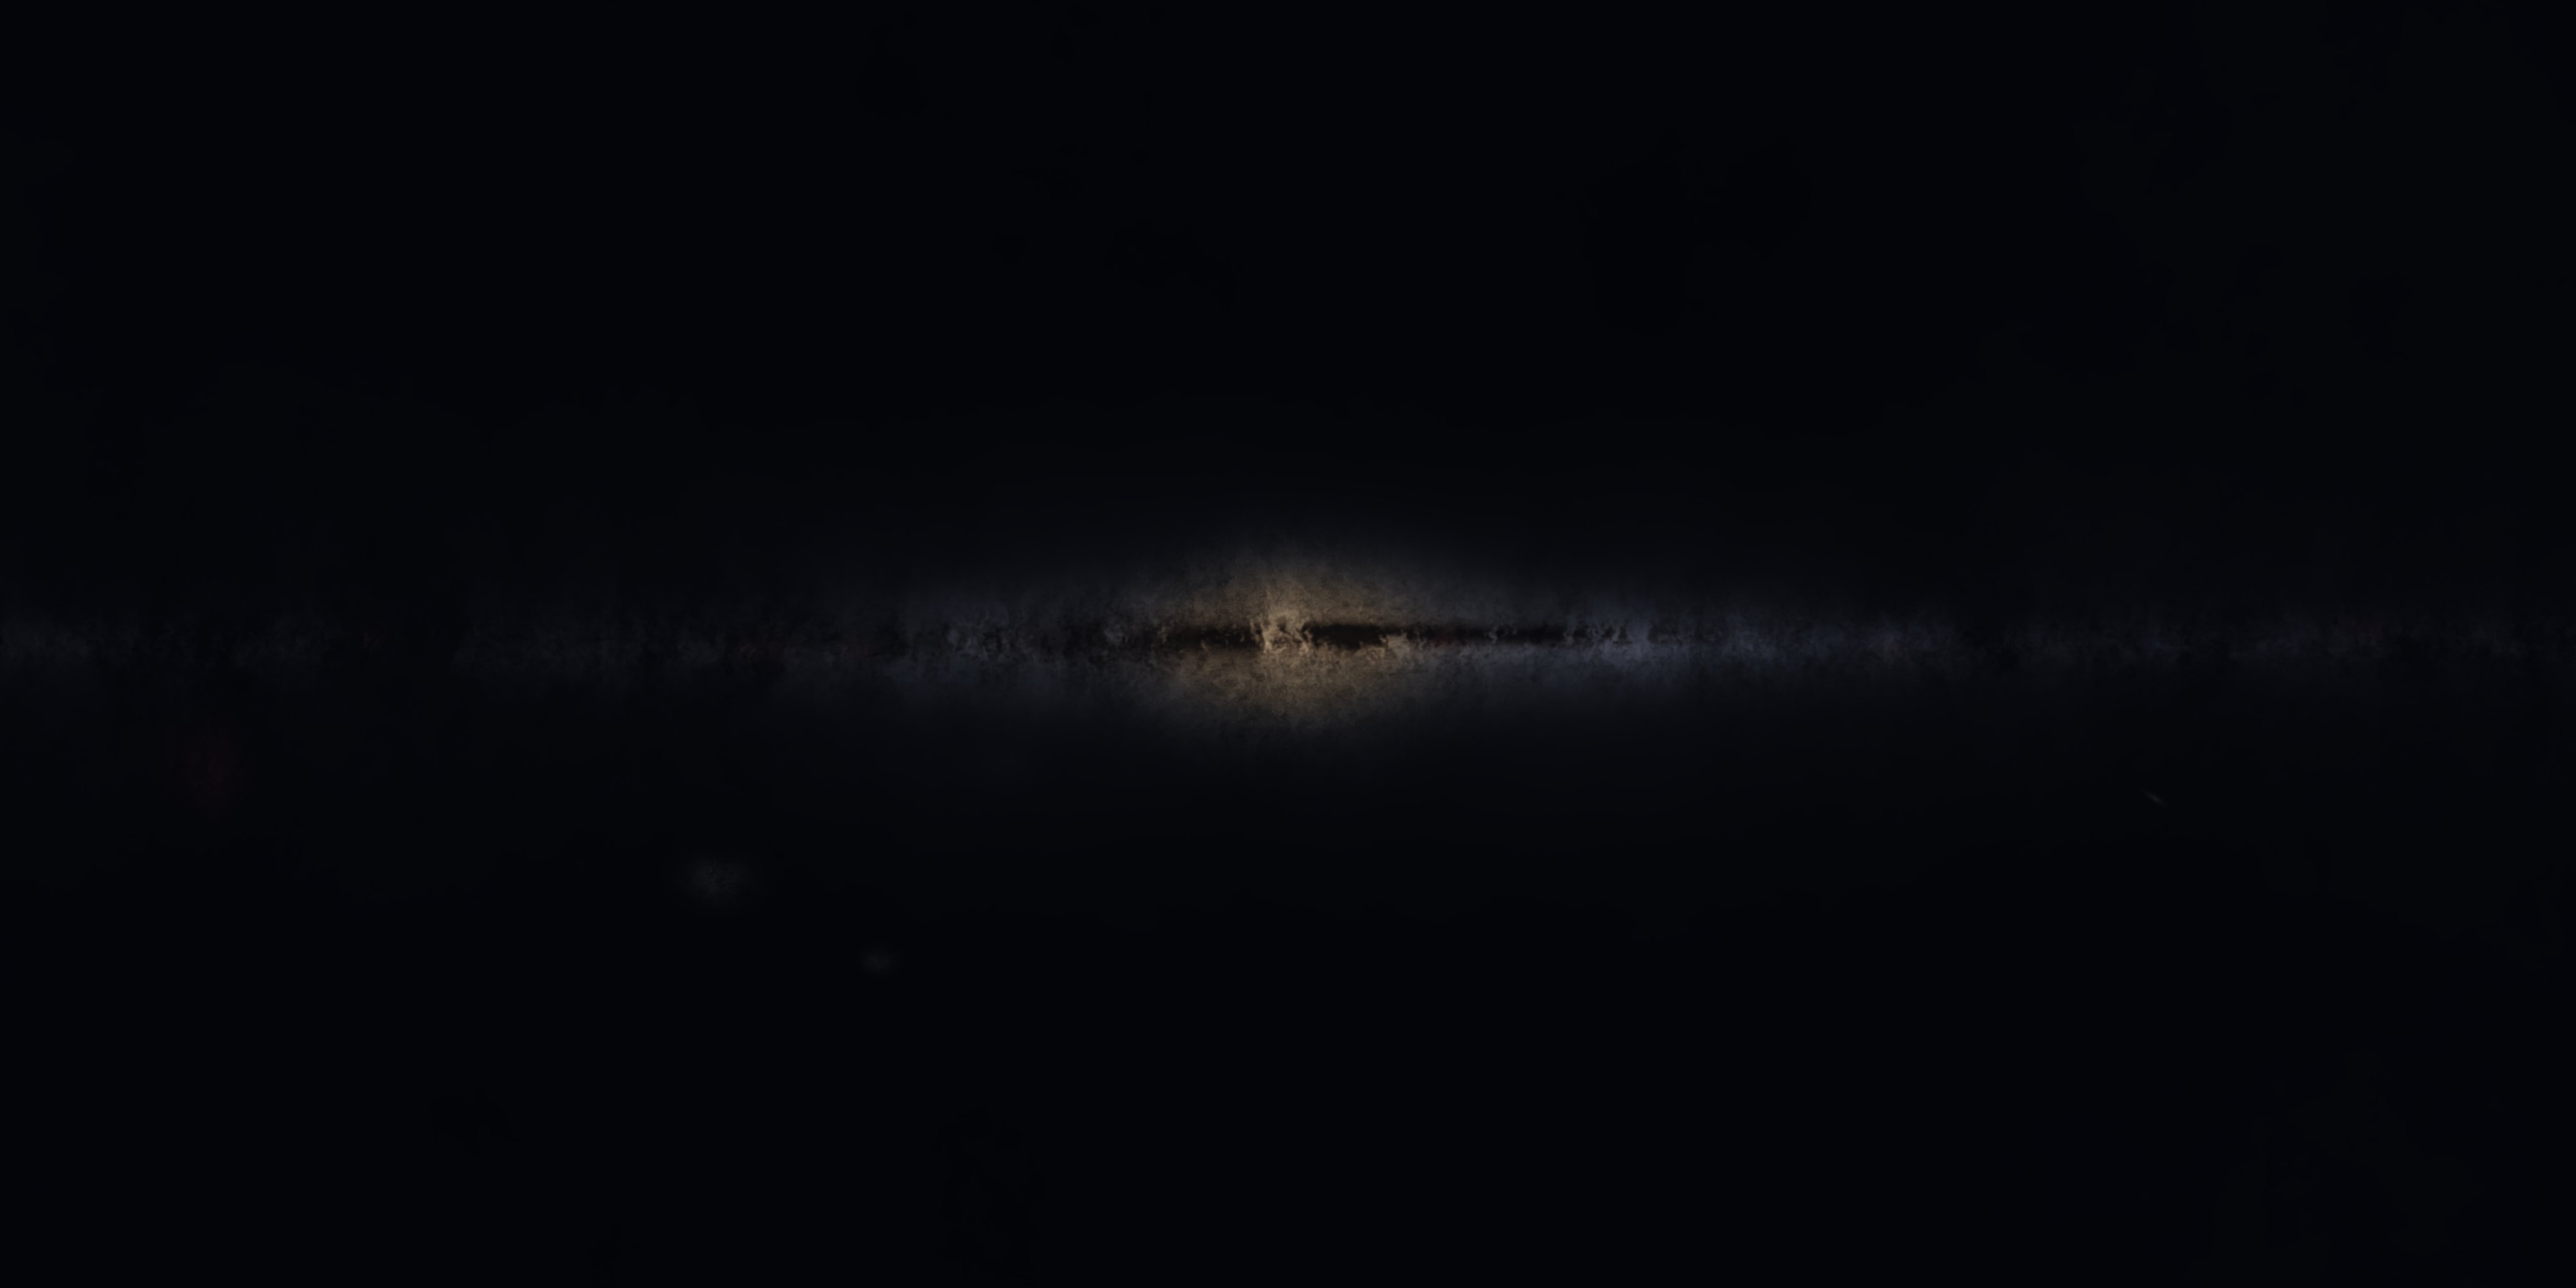
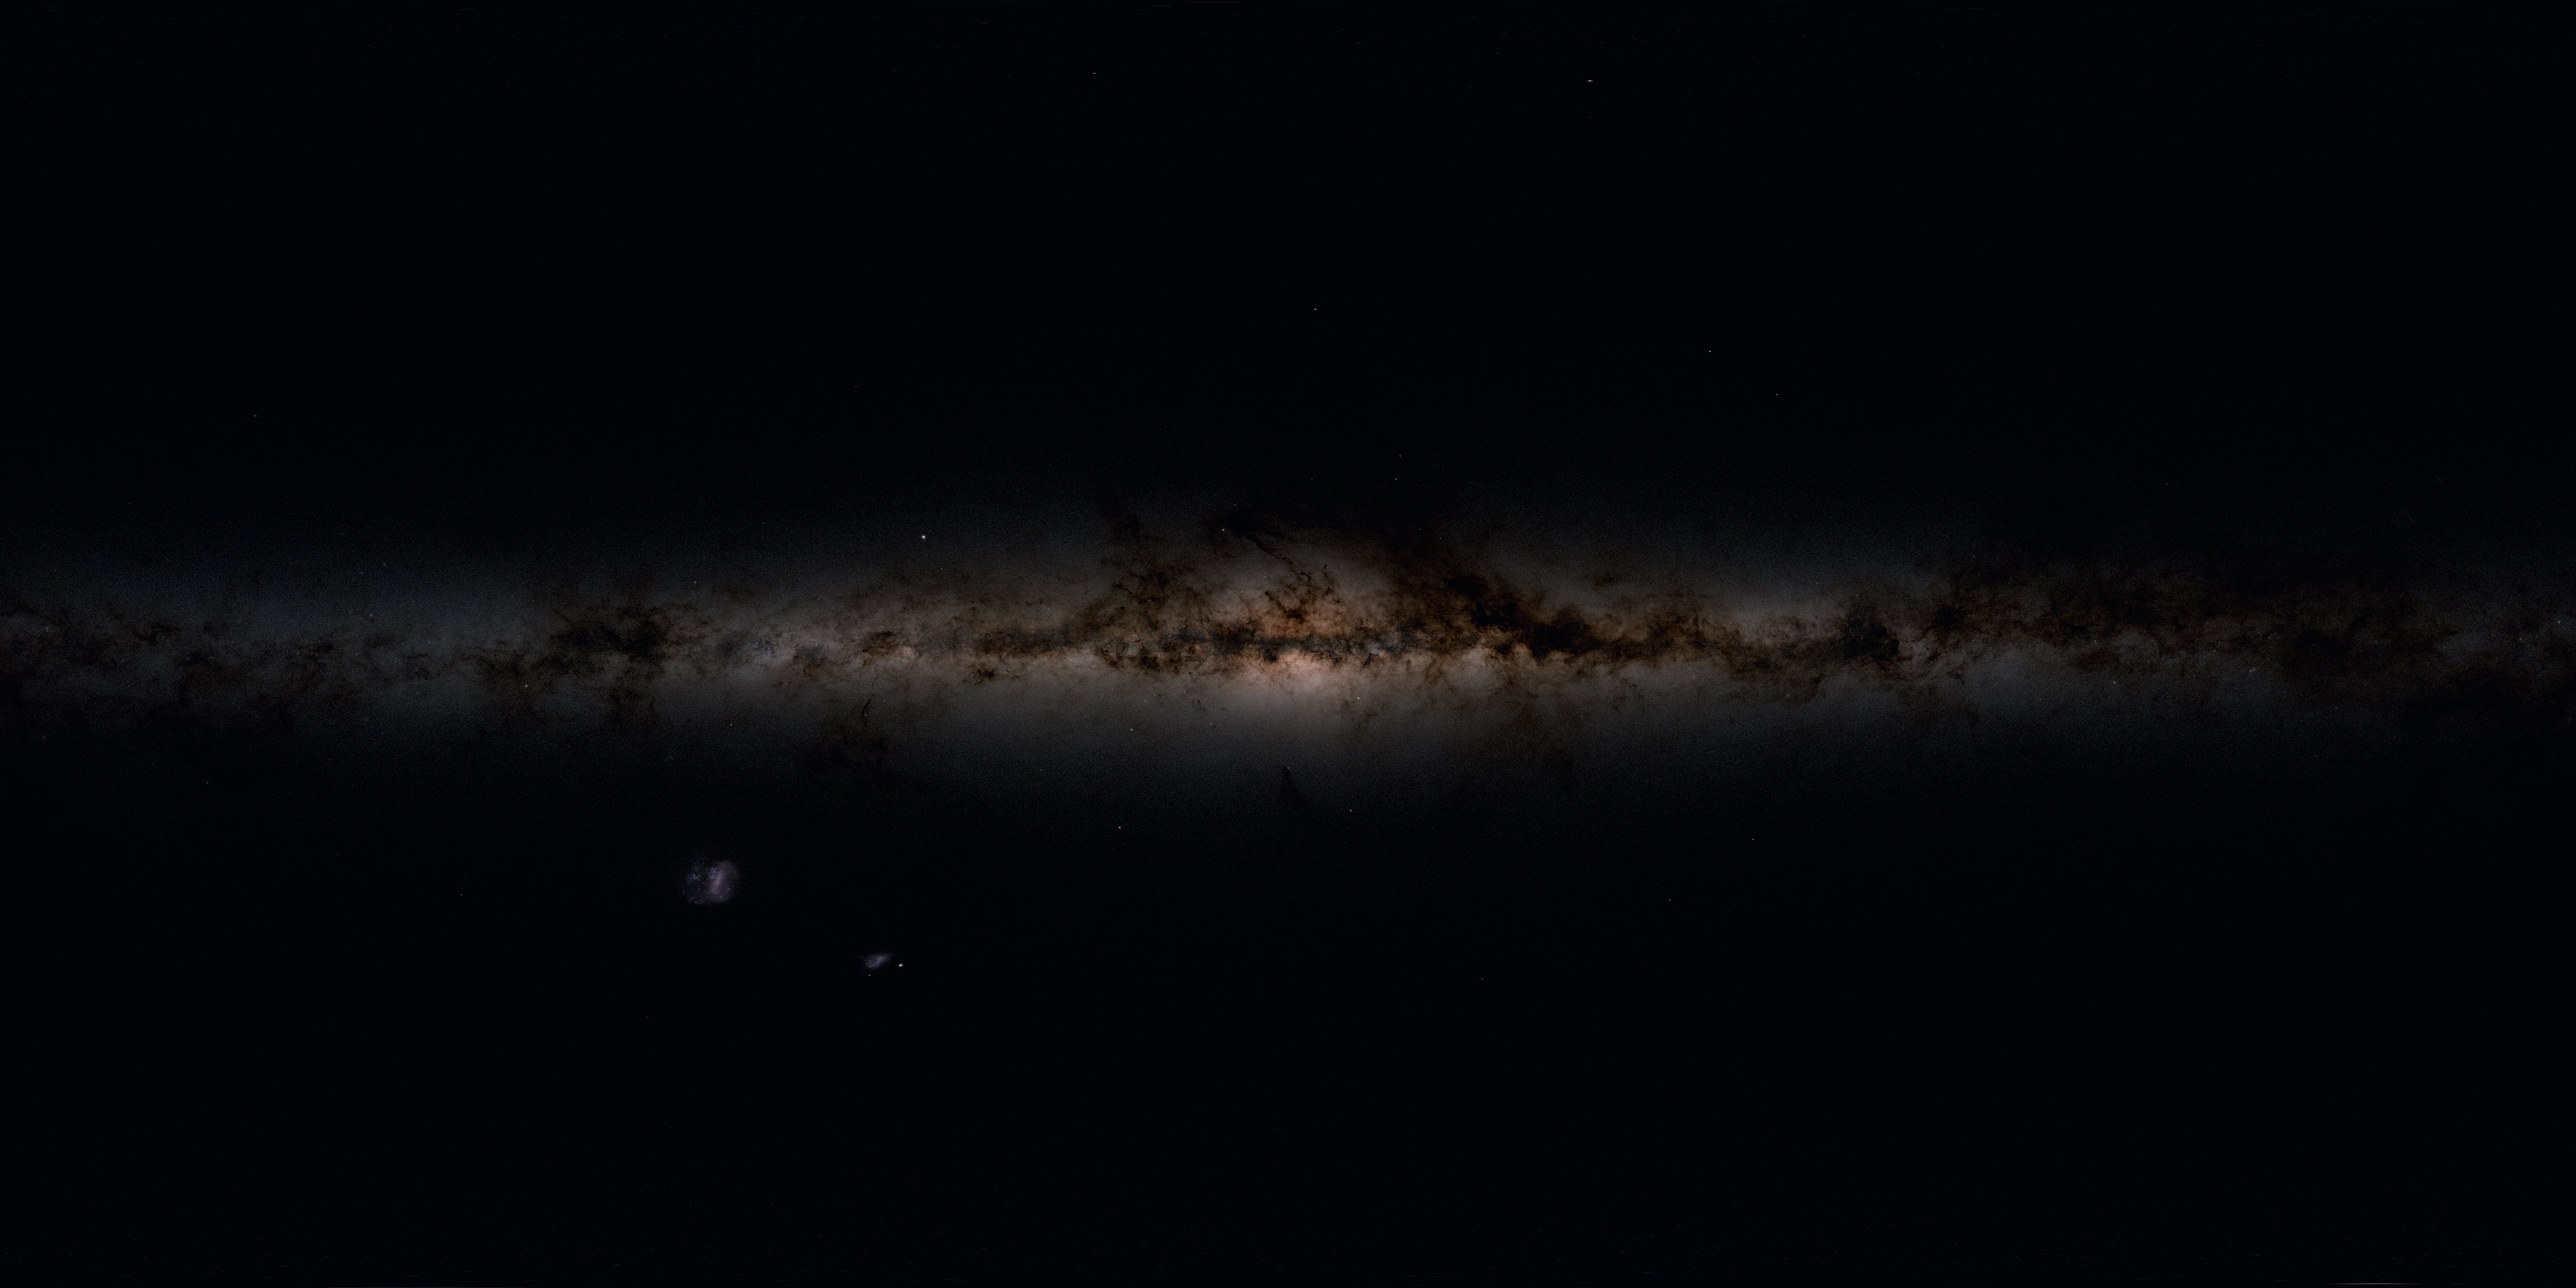
Sharper Milky Way sky (NASA Deep Star Maps), faster city pin photos, fix iOS home-screen bottom gap
Claude-Session: https://claude.ai/code/session_01XvWLoUnvxSnNTKnmBkEjzw

Changed region(s): [[0.0625, 0.4375, 0.875, 0.5938], [0.25, 0.6562, 0.2812, 0.6875]]

diff --git a/index.html b/index.html
@@ -22,6 +22,7 @@
 <meta name="apple-mobile-web-app-status-bar-style" content="black-translucent">
 <meta name="apple-mobile-web-app-title" content="ATLAS">
 <link rel="preconnect" href="https://mzttscrmrlxsppknmdvg.supabase.co" crossorigin>
+<link rel="preconnect" href="https://images.unsplash.com">
 <link rel="preload" href="tex/day4k.jpg" as="image">
 <link rel="preload" href="tex/night4k.jpg" as="image">
 <style>:root{color-scheme:dark}body{margin:0}[hidden]{display:none!important}img{max-width:100%}</style>
@@ -70,6 +71,7 @@ button{font:inherit;color:inherit}
 
 /* 舞台 */
 #stage{position:fixed;inset:0;overflow:hidden;touch-action:none;user-select:none;-webkit-user-select:none;cursor:grab}
+html.iosgap #stage,html.iosgap .cityv,html.iosgap .catv{bottom:calc(-1 * env(safe-area-inset-top,0px))}
 #stage.pointer{cursor:pointer}
 #stage.drag{cursor:grabbing}
 #gl{position:absolute;inset:0;width:100%;height:100%;display:block}
@@ -1340,7 +1342,7 @@ html[lang="en"] .ct-dd{font-size:16.5px;line-height:1.55}
     </div>
   </div>
   <div class="mlinks" id="acctLinks"></div>
-  <p class="acct-note"><span data-i18n="imgNote">地球影像来源：NASA（Blue Marble、Black Marble、GIBS）</span><br><span data-i18n="dataNote">地名数据：GeoNames、Wikidata、Natural Earth</span></p>
+  <p class="acct-note"><span data-i18n="imgNote">地球影像来源：NASA（Blue Marble、Black Marble、GIBS）；银河：NASA/Goddard SVS，Gaia DR2：ESA/Gaia/DPAC</span><br><span data-i18n="dataNote">地名数据：GeoNames、Wikidata、Natural Earth</span></p>
 </div>
 
 <div id="fallback" hidden><div class="fbcard glass">
@@ -1371,7 +1373,7 @@ html[lang="en"] .ct-dd{font-size:16.5px;line-height:1.55}
 (function(){
 "use strict";
 
-var TEX={day:"tex/day8k.jpg",night:"tex/night8k.jpg",day4:"tex/day4k.jpg",night4:"tex/night4k.jpg",water:"tex/water4k.png",height:"tex/height4k.jpg",sky:"tex/sky4k.jpg",land:"tex/land2k.png"};
+var TEX={day:"tex/day8k.jpg",night:"tex/night8k.jpg",day4:"tex/day4k.jpg",night4:"tex/night4k.jpg",water:"tex/water4k.png",height:"tex/height4k.jpg",sky:"tex/sky4k.jpg",sky2:"tex/sky2k.jpg",sky8:"tex/sky8k.jpg",land:"tex/land2k.png"};
 
 /* ---------- 数据 ---------- */
 var CONT=[
@@ -1428,14 +1430,14 @@ var I18N={
       fbTitle:"这台设备打不开三维地球",fbText:"浏览器没有启用 WebGL。请换用最新版的 Chrome、Edge 或 Safari 再打开。",
       pinHide:"隐藏城市",pinShow:"显示城市",pinHideT:"隐藏地球上的城市照片标记",pinShowT:"显示地球上的城市照片标记",dayOn:"全球白天",dayOff:"昼夜",dayOnT:"让整个地球都处在白天",dayOffT:"恢复昼夜",
       close:"关闭",prev:"上一个",next:"下一个",fest:"节日",food:"美食",craft:"手艺",tipRow:"入乡随俗",fact:"你知道吗",
-      country:"国家",cities:"已收录的城市",pending:"介绍内容整理中。",back:"返回",backGlobe:"回到地球",photoSoon:"示意图 · 照片待添加",local:"当地",localTime:"当地时间",imgNote:"地球影像来源：NASA（Blue Marble、Black Marble、GIBS）",slide:"第 %s 张",about2:"介绍",searchPh:"搜索",searchAria:"搜索国家、城市或地点",clear:"清除",cancel:"取消",noRes:"没有找到相关地点",localDay:"当地时间，白天",localNight:"当地时间，夜晚",sep:"，",
+      country:"国家",cities:"已收录的城市",pending:"介绍内容整理中。",back:"返回",backGlobe:"回到地球",photoSoon:"示意图 · 照片待添加",local:"当地",localTime:"当地时间",imgNote:"地球影像来源：NASA（Blue Marble、Black Marble、GIBS）；银河：NASA/Goddard SVS，Gaia DR2：ESA/Gaia/DPAC",slide:"第 %s 张",about2:"介绍",searchPh:"搜索",searchAria:"搜索国家、城市或地点",clear:"清除",cancel:"取消",noRes:"没有找到相关地点",localDay:"当地时间，白天",localNight:"当地时间，夜晚",sep:"，",
       soon:function(n){return n+"的板块还在筹备中。现在先收录了五座试点城市，再往后会按国家逐步补上。";}},
   en:{globe:"Rotatable, zoomable 3D globe",settings:"Settings",language:"Language",about:"ATLAS: turn the globe, pick a city, learn a local greeting, and discover its festivals, food and crafts.",
       start:"Click the globe to begin",startTouch:"Tap the globe to begin",loading:"Loading the Earth…",tip:"Drag to rotate · Scroll to zoom · Click a name to open",tipTouch:"Drag to rotate · Pinch to zoom · Tap a name to open",
       fbTitle:"This device can’t show the 3D globe",fbText:"WebGL isn’t available in this browser. Please try the latest Chrome, Edge or Safari.",
       pinHide:"Hide cities",pinShow:"Show cities",pinHideT:"Hide the city photo markers on the globe",pinShowT:"Show the city photo markers on the globe",dayOn:"All daylight",dayOff:"Day & night",dayOnT:"Light up the whole globe",dayOffT:"Back to day and night",
       close:"Close",prev:"Previous",next:"Next",fest:"Festival",food:"Food",craft:"Craft",tipRow:"Etiquette",fact:"Did you know?",
-      country:"Country",cities:"Cities on ATLAS",pending:"Details for this city are on the way.",back:"Back",backGlobe:"Back to the globe",photoSoon:"Placeholder · photos coming soon",local:"Local",localTime:"Local time",imgNote:"Earth imagery: NASA (Blue Marble, Black Marble, GIBS)",slide:"Image %s",about2:"About",searchPh:"Search",searchAria:"Search countries, cities or places",clear:"Clear",cancel:"Cancel",noRes:"No matching places",localDay:"Local time, daytime",localNight:"Local time, night",sep:", ",
+      country:"Country",cities:"Cities on ATLAS",pending:"Details for this city are on the way.",back:"Back",backGlobe:"Back to the globe",photoSoon:"Placeholder · photos coming soon",local:"Local",localTime:"Local time",imgNote:"Earth imagery: NASA (Blue Marble, Black Marble, GIBS). Milky Way: NASA/Goddard SVS, Gaia DR2: ESA/Gaia/DPAC",slide:"Image %s",about2:"About",searchPh:"Search",searchAria:"Search countries, cities or places",clear:"Clear",cancel:"Cancel",noRes:"No matching places",localDay:"Local time, daytime",localNight:"Local time, night",sep:", ",
       soon:function(n){return "The "+n+" section is still in the works. ATLAS starts with five pilot cities, and more countries will be added over time.";}}
 };
 var CONT_EN={asia:"Asia",europe:"Europe",africa:"Africa",america:"Americas",oceania:"Oceania"};
@@ -2196,8 +2198,20 @@ function drawSky(now,t,dta,spinD){
   gl.disableVertexAttribArray(SKY.P.aP);gl.disableVertexAttribArray(SKY.P.aC);gl.disableVertexAttribArray(SKY.P.aS);
   gl.disable(gl.BLEND);
 }
+/* iOS 从主屏幕全屏打开时，页面高度会少掉顶部状态栏那一截，屏幕最下面露出一条黑边。
+   检测到这种情况就把地球画布往下延伸到屏幕底部（只在全屏模式下生效） */
+function iosGap(){
+  var st=navigator.standalone===true;try{st=st||matchMedia("(display-mode: standalone)").matches;}catch(e){}
+  if(!st)return;
+  var pr=document.createElement("div");pr.style.cssText="position:fixed;left:0;top:0;width:1px;height:env(safe-area-inset-top,0px);visibility:hidden;pointer-events:none";
+  document.body.appendChild(pr);var top=pr.getBoundingClientRect().height;pr.remove();
+  var portrait=innerHeight>=innerWidth,sw=screen.width||0,sh=screen.height||0;
+  var full=portrait?Math.max(sw,sh):Math.min(sw,sh),gap=full-innerHeight;
+  document.documentElement.classList.toggle("iosgap",top>0&&gap>4&&Math.abs(gap-top)<=4);
+}
 function resize(){
-  S.W=innerWidth;S.H=innerHeight;
+  iosGap();
+  S.W=stage.clientWidth||innerWidth;S.H=stage.clientHeight||innerHeight;
   var dpr=Math.min(window.devicePixelRatio||1,2);
   if(S.W*S.H*dpr*dpr>3400000)dpr=Math.max(1,Math.sqrt(3400000/(S.W*S.H)));
   S.dpr=dpr;glc.width=Math.round(S.W*dpr);glc.height=Math.round(S.H*dpr);
@@ -3465,6 +3479,23 @@ function loadOverview(n){
   });
 }
 /* 地球上的城市标记：精选照片 + 旅行者公开的照片 */
+/* 城市圆圈只有 32px：照片取 96px 的小图（Unsplash 按需裁好、自动选 WebP/AVIF），比原来的 480px 小几十倍 */
+function pinPath(a){
+  if(a[7]==="unsplash")return a[0]+(a[0].indexOf("?")<0?"?":"&")+"w=96&h=96&fit=crop&crop=entropy&q=60&auto=format";
+  return curPath(a,true);
+}
+/* 地球出现后，在后台把圆圈照片先下载好（同时最多 6 张），转到哪里都能马上显示 */
+var PINPRE={done:{},q:[],n:0};
+function pinPreload(list){
+  list.forEach(function(u){if(u&&!PINPRE.done[u]){PINPRE.done[u]=1;PINPRE.q.push(u);}});
+  (function pump(){
+    while(PINPRE.n<6&&PINPRE.q.length){
+      var u=PINPRE.q.shift(),im=new Image();PINPRE.n++;
+      im.onload=im.onerror=function(){PINPRE.n--;pump();};
+      im.decoding="async";im.src=u;
+    }
+  })();
+}
 var SUB_KM=35;
 /* 出名的地方：有精选相册，或者是大城市 */
 function isMajor(id){var c=typeof CUR!=="undefined"&&CUR.p&&CUR.p[id],p=C.PI&&C.PI[id];return !!(c&&c.length)||!!(p&&p.pc>=7);}
@@ -3501,7 +3532,7 @@ function pinSource(){
   Object.keys(cur).forEach(function(id){
     var a=cur[id];if(!a.length)return;var p=C.PI[id];if(!p)return;
     var s=a.filter(function(x){return x[1]==="s";})[0]||a[0];
-    add(id,curPath(s,true),a.length);
+    add(id,pinPath(s),a.length);
   });
   C.ov.forEach(function(o){add(o.city_id,o.cover?pubURL(o.cover):"",o.n,o.clat,o.clng,o.city_zh,o.city_en,o.cc);});
   /* 出名的地方（有精选相册或大城市）各自显示；附近不太出名的地点（比如东京的各个区）并进最近的那座城市，
@@ -3532,9 +3563,12 @@ function commPins(){
       return {id:q.id,lat:q.lat,lon:q.lon,name:q.name,badge:"",img:src,fp:true};
     });
   }
-  return pinSource().slice(0,600).map(function(q){
+  var L=pinSource().slice(0,600).map(function(q){
     return {id:q.id,lat:q.lat,lon:q.lon,name:q.name,badge:"",img:q.img};
   });
+  /* 等地球贴图都加载完再预载，免得抢带宽 */
+  (function go(){if(!S.ready){setTimeout(go,800);return;}setTimeout(function(){pinPreload(L.map(function(q){return q.img;}));},600);})();
+  return L;
 }
 function refreshPins(){buildLabels();}
 
@@ -5272,7 +5306,7 @@ function boot(){
     loadTex(TEX.night4||TEX.night,1,TEX.day4||small?4096:8192,true).then(function(t){S.tNight=t;return t;}),
     loadTex(TEX.water,2,small?2048:4096,"la"),
     loadTex(TEX.height,3,small?2048:4096,true,function(w,h){S.htx=1/w;S.hty=1/h;}),
-    loadTex(TEX.sky,5,small?2048:4096,false,null,true)
+    loadTex(small&&TEX.sky2?TEX.sky2:TEX.sky,5,small?2048:4096,false,null,true).then(function(t){S.tSky=t;return t;})
   ]).then(function(){
     S.ready=true;document.body.classList.remove("loading");
     S.last=performance.now();requestAnimationFrame(render);
@@ -5285,7 +5319,10 @@ function texUpgrade(){
   function swap(src,unit,lum,key){
     return loadTex(src,unit,8192,lum).then(function(t){var old=S[key];S[key]=t;if(old&&old!==t)gl.deleteTexture(old);}).catch(function(){});
   }
-  swap(TEX.day,0,false,"tDay").then(function(){return swap(TEX.night,1,true,"tNight");});
+  swap(TEX.day,0,false,"tDay").then(function(){return swap(TEX.night,1,true,"tNight");}).then(function(){
+    /* 高清银河（8K），电脑上最后再换 */
+    if(TEX.sky8)return loadTex(TEX.sky8,5,8192,false,null,true).then(function(t){var old=S.tSky;S.tSky=t;if(old&&old!==t)gl.deleteTexture(old);}).catch(function(){});
+  });
 }
 boot();
 /* 加到主屏幕后像 App 一样打开；地球贴图等文件缓存在手机上，第二次打开更快，没网时也能打开 */

diff --git a/sw.js b/sw.js
@@ -2,8 +2,8 @@
    - 网页本身和数据清单（cities/photos/目录）：先联网取最新的，没网时用缓存
    - 地球贴图、程序库、图标：先用缓存，同时在后台更新
    - 其他网站的请求（数据库、Unsplash 照片、地图瓦片）不经过这里 */
-var V = "atlas-71245284b7";
-var CORE = ["./", "manifest.webmanifest", "icons/icon-192.png", "icons/icon-512.png", "tex/day4k.jpg", "tex/night4k.jpg", "tex/water4k.png", "tex/height4k.jpg", "tex/sky4k.jpg", "tex/land2k.png", "cities.json", "photos.json"];
+var V = "atlas-e65b89ae28";
+var CORE = ["./", "manifest.webmanifest", "icons/icon-192.png", "icons/icon-512.png", "tex/day4k.jpg", "tex/night4k.jpg", "tex/water4k.png", "tex/height4k.jpg", "tex/land2k.png", "cities.json", "photos.json"];
 self.addEventListener("install", function (e) {
   e.waitUntil(caches.open(V).then(function (c) { return c.addAll(CORE); }).catch(function () {}).then(function () { return self.skipWaiting(); }));
 });
